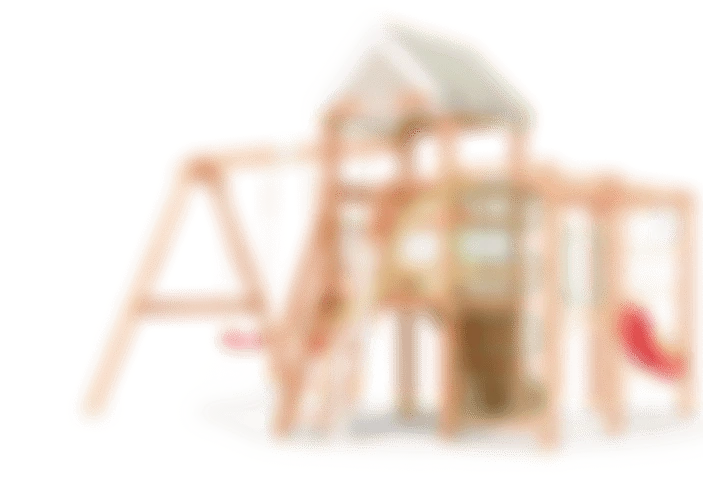
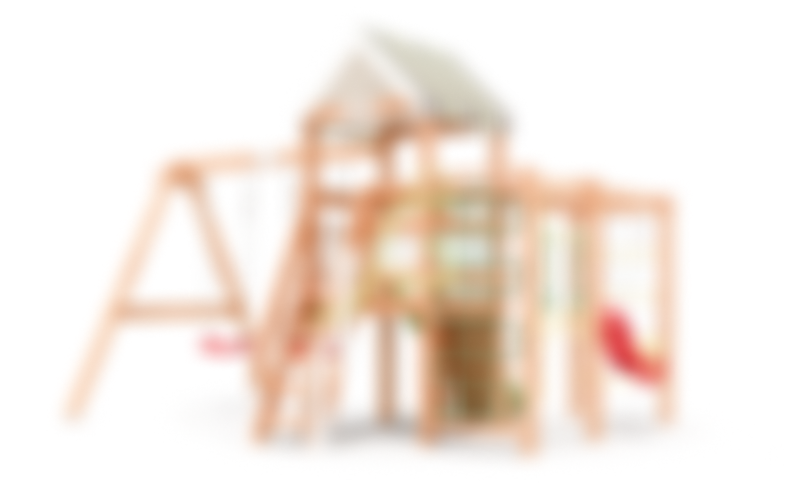
fix: fixed for-whom

diff --git a/scss/_l-for-whom.scss b/scss/_l-for-whom.scss
@@ -54,7 +54,7 @@
       z-index: -1;
       display: block;
       width: 786px;
-      height: 450px;
+      height: 489px;
       background: url(../assets/playgfround.webp) center / cover no-repeat;
 
       @include laptop {

diff --git a/css/index.css b/css/index.css
@@ -781,7 +781,7 @@ img {
   z-index: -1;
   display: block;
   width: 786px;
-  height: 450px;
+  height: 489px;
   background: url(../assets/playgfround.webp) center/cover no-repeat;
 }
 @media (max-width: 992px) {
